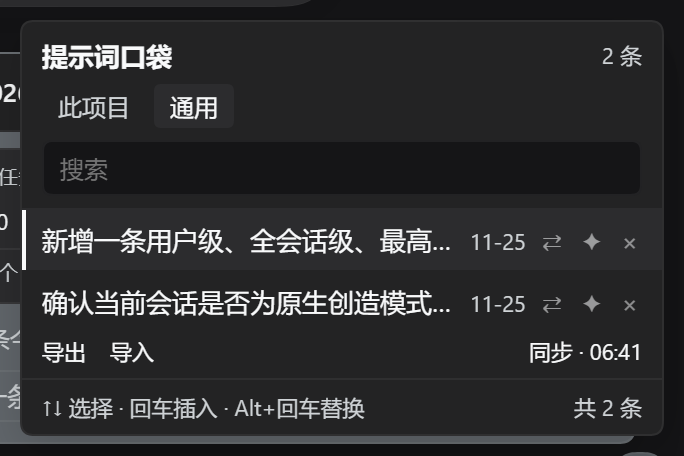
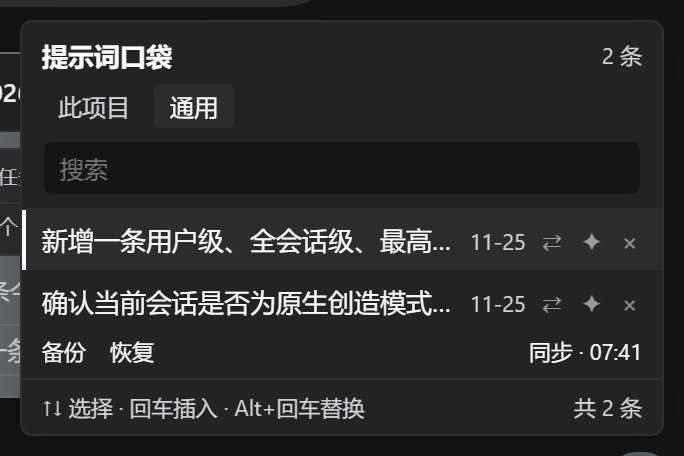
1.0.15: call them backup and restore
They are not a second sync path: sync needs git and a network, a backup is one
standalone JSON. Renamed in the panel, explained on the plugin page and in both
READMEs, screenshots re-shot because the footer labels changed.

diff --git a/client.js b/client.js
@@ -42,8 +42,8 @@ window.__ModuleLoader__.load({
       polishNoModel: '没有可用的模型，去设置里选一个',
       polishSame: '原文已经是完整可执行的提示词，没有改',
       countTotal: '共 {n} 条',
-      exportAll: '导出',
-      importAll: '导入',
+      exportAll: '备份',
+      importAll: '恢复',
       importDone: '已合并：新增 {a}，更新 {u}',
       importFail: '导入失败，文件格式不对',
       syncOff: '同步未开启',
@@ -90,8 +90,8 @@ window.__ModuleLoader__.load({
       polishNoModel: 'No model is available; pick one in settings',
       polishSame: 'The input is already an executable prompt; nothing changed',
       countTotal: '{n} in total',
-      exportAll: 'Export',
-      importAll: 'Import',
+      exportAll: 'Backup',
+      importAll: 'Restore',
       importDone: 'Merged: {a} new, {u} updated',
       importFail: 'Import failed: not a pocket file',
       syncOff: 'Sync off',

diff --git a/README.zh.md b/README.zh.md
@@ -20,7 +20,7 @@
 - **AI 回复一键存原文。** 从会话日志里只取 text 块，工具调用不会漏进提示词。
 - **模型共用同一个口袋。** `prompt_stash` 工具读写同一份文件，且守分档，一个项目的提示词不会出现在另一个项目的回答里。
 - **用你自己的私有 git 仓库自动同步。** 启动时拉一次，面板打开时如果上次同步超过 30 秒也会拉，另外每五分钟拉一次；改动后三秒推送。 每次改动自动提交推送，启动时合并远端；一条提示词一个文件，所以合并会让两边都留下，而不是把一份文档写坏。**公开仓库会被直接拒绝**——开启前插件会问一次 GitHub，这个仓库是不是公开的。
-- **导出与导入就是一个 JSON 文件。** 给没有 git 的机器用，或者在信任同步之前先做一次备份。
+- **备份与恢复就是一个 JSON 文件。** 给没有 git 的机器用，或者在信任同步之前先做一次备份。
 - **最多 500 条，满了淘汰最久没用的那条；一个 JSON 文件、原子写、没有运行时依赖、不需要账号。** 除了你主动点的那一次模型调用，什么都不出这台机器。
 
 ![口袋收起时就是输入框角落一枚很淡的圆点](https://raw.githubusercontent.com/FindSomeSkills/dsh-prompt-pocket/main/docs/images/zh-pill.png)
@@ -32,8 +32,6 @@
 这就是它要解决的场景：家里一台台式机、公司一台笔记本、书房一台 Mac，可能还有一台一个月才开一次的备用机。**每台填同一个私有仓库地址，各自存一份完整副本**，中午在台式机上存的提示词，晚上打开另一台就在。
 
 ![Windows 上的面板：两条提示词，底部是最后一次同步时间](https://cdn.jsdelivr.net/gh/FindSomeSkills/dsh-prompt-pocket@main/docs/images/win-sync.png)
-
-![Mac 上的同一个口袋](https://cdn.jsdelivr.net/gh/FindSomeSkills/dsh-prompt-pocket@main/docs/images/mac-sync-zh.png)
 
 | 你做了什么 | 插件做了什么 |
 | --- | --- |
@@ -52,7 +50,7 @@
 
 **同一条在两台机器上都被改过：** `updatedAt` 新的赢；删除比它之前的修改优先。没有合并对话框——每台设备弹一次，口袋就变成负担。
 
-**公开仓库直接拒绝。** 开启前问一次 GitHub：200 说明公开，停下；404 说明私有，放行。
+**公开仓库直接拒绝。** 备份与恢复留给没有 git 的机器，也是同步出问题时的一条退路。 开启前问一次 GitHub：200 说明公开，停下；404 说明私有，放行。
 
 ## 安装
 

diff --git a/README.md b/README.md
@@ -20,7 +20,7 @@ Prompt libraries ask for a title, tags, a folder and a panel before they will ke
 - **One click on an assistant reply keeps it verbatim** as source material, read from the session log — text blocks only, tool calls never leak in.
 - **The agent shares the same pocket** through the `prompt_stash` tool, scoped to the drawers so one project's prompts do not show up in another's answer.
 - **Sync through your own private git repository, automatically.** The host pulls on launch, when the panel opens after a stale gap, and every five minutes; each change is pushed three seconds after you make it. The panel pushes each change and merges the remote on launch; prompts are one file each, so a merge keeps both sides instead of corrupting one document. **A public repository is refused** — the plugin asks GitHub whether the repo is visible before it enables sync.
-- **Export and import as one JSON file.** For machines without git, or for a backup before you trust a sync.
+- **Backup and restore as one JSON file.** For machines without git, or for a backup before you trust a sync.
 - **500 prompts, least recently used dropped, one JSON file, atomic writes, no runtime dependencies, no account.** Nothing leaves the machine except the one model call you explicitly ask for.
 
 ![The pocket collapsed to a faint dot in the corner of the composer](https://raw.githubusercontent.com/FindSomeSkills/dsh-prompt-pocket/main/docs/images/en-pill.png)
@@ -32,8 +32,6 @@ Prompt libraries ask for a title, tags, a folder and a panel before they will ke
 This is the case it is built for: a desktop at home, a laptop at work, a Mac in another room, a spare machine you open once a month. **Each one points at the same private repository and keeps a full copy**, so the prompt you saved at noon is on the machine you open at night.
 
 ![The panel on Windows: two prompts and the last sync time in the footer](https://cdn.jsdelivr.net/gh/FindSomeSkills/dsh-prompt-pocket@main/docs/images/win-sync.png)
-
-![The same pocket on a Mac, in English](https://cdn.jsdelivr.net/gh/FindSomeSkills/dsh-prompt-pocket@main/docs/images/mac-sync-en.png)
 
 | What you do | What the plugin does |
 | --- | --- |
